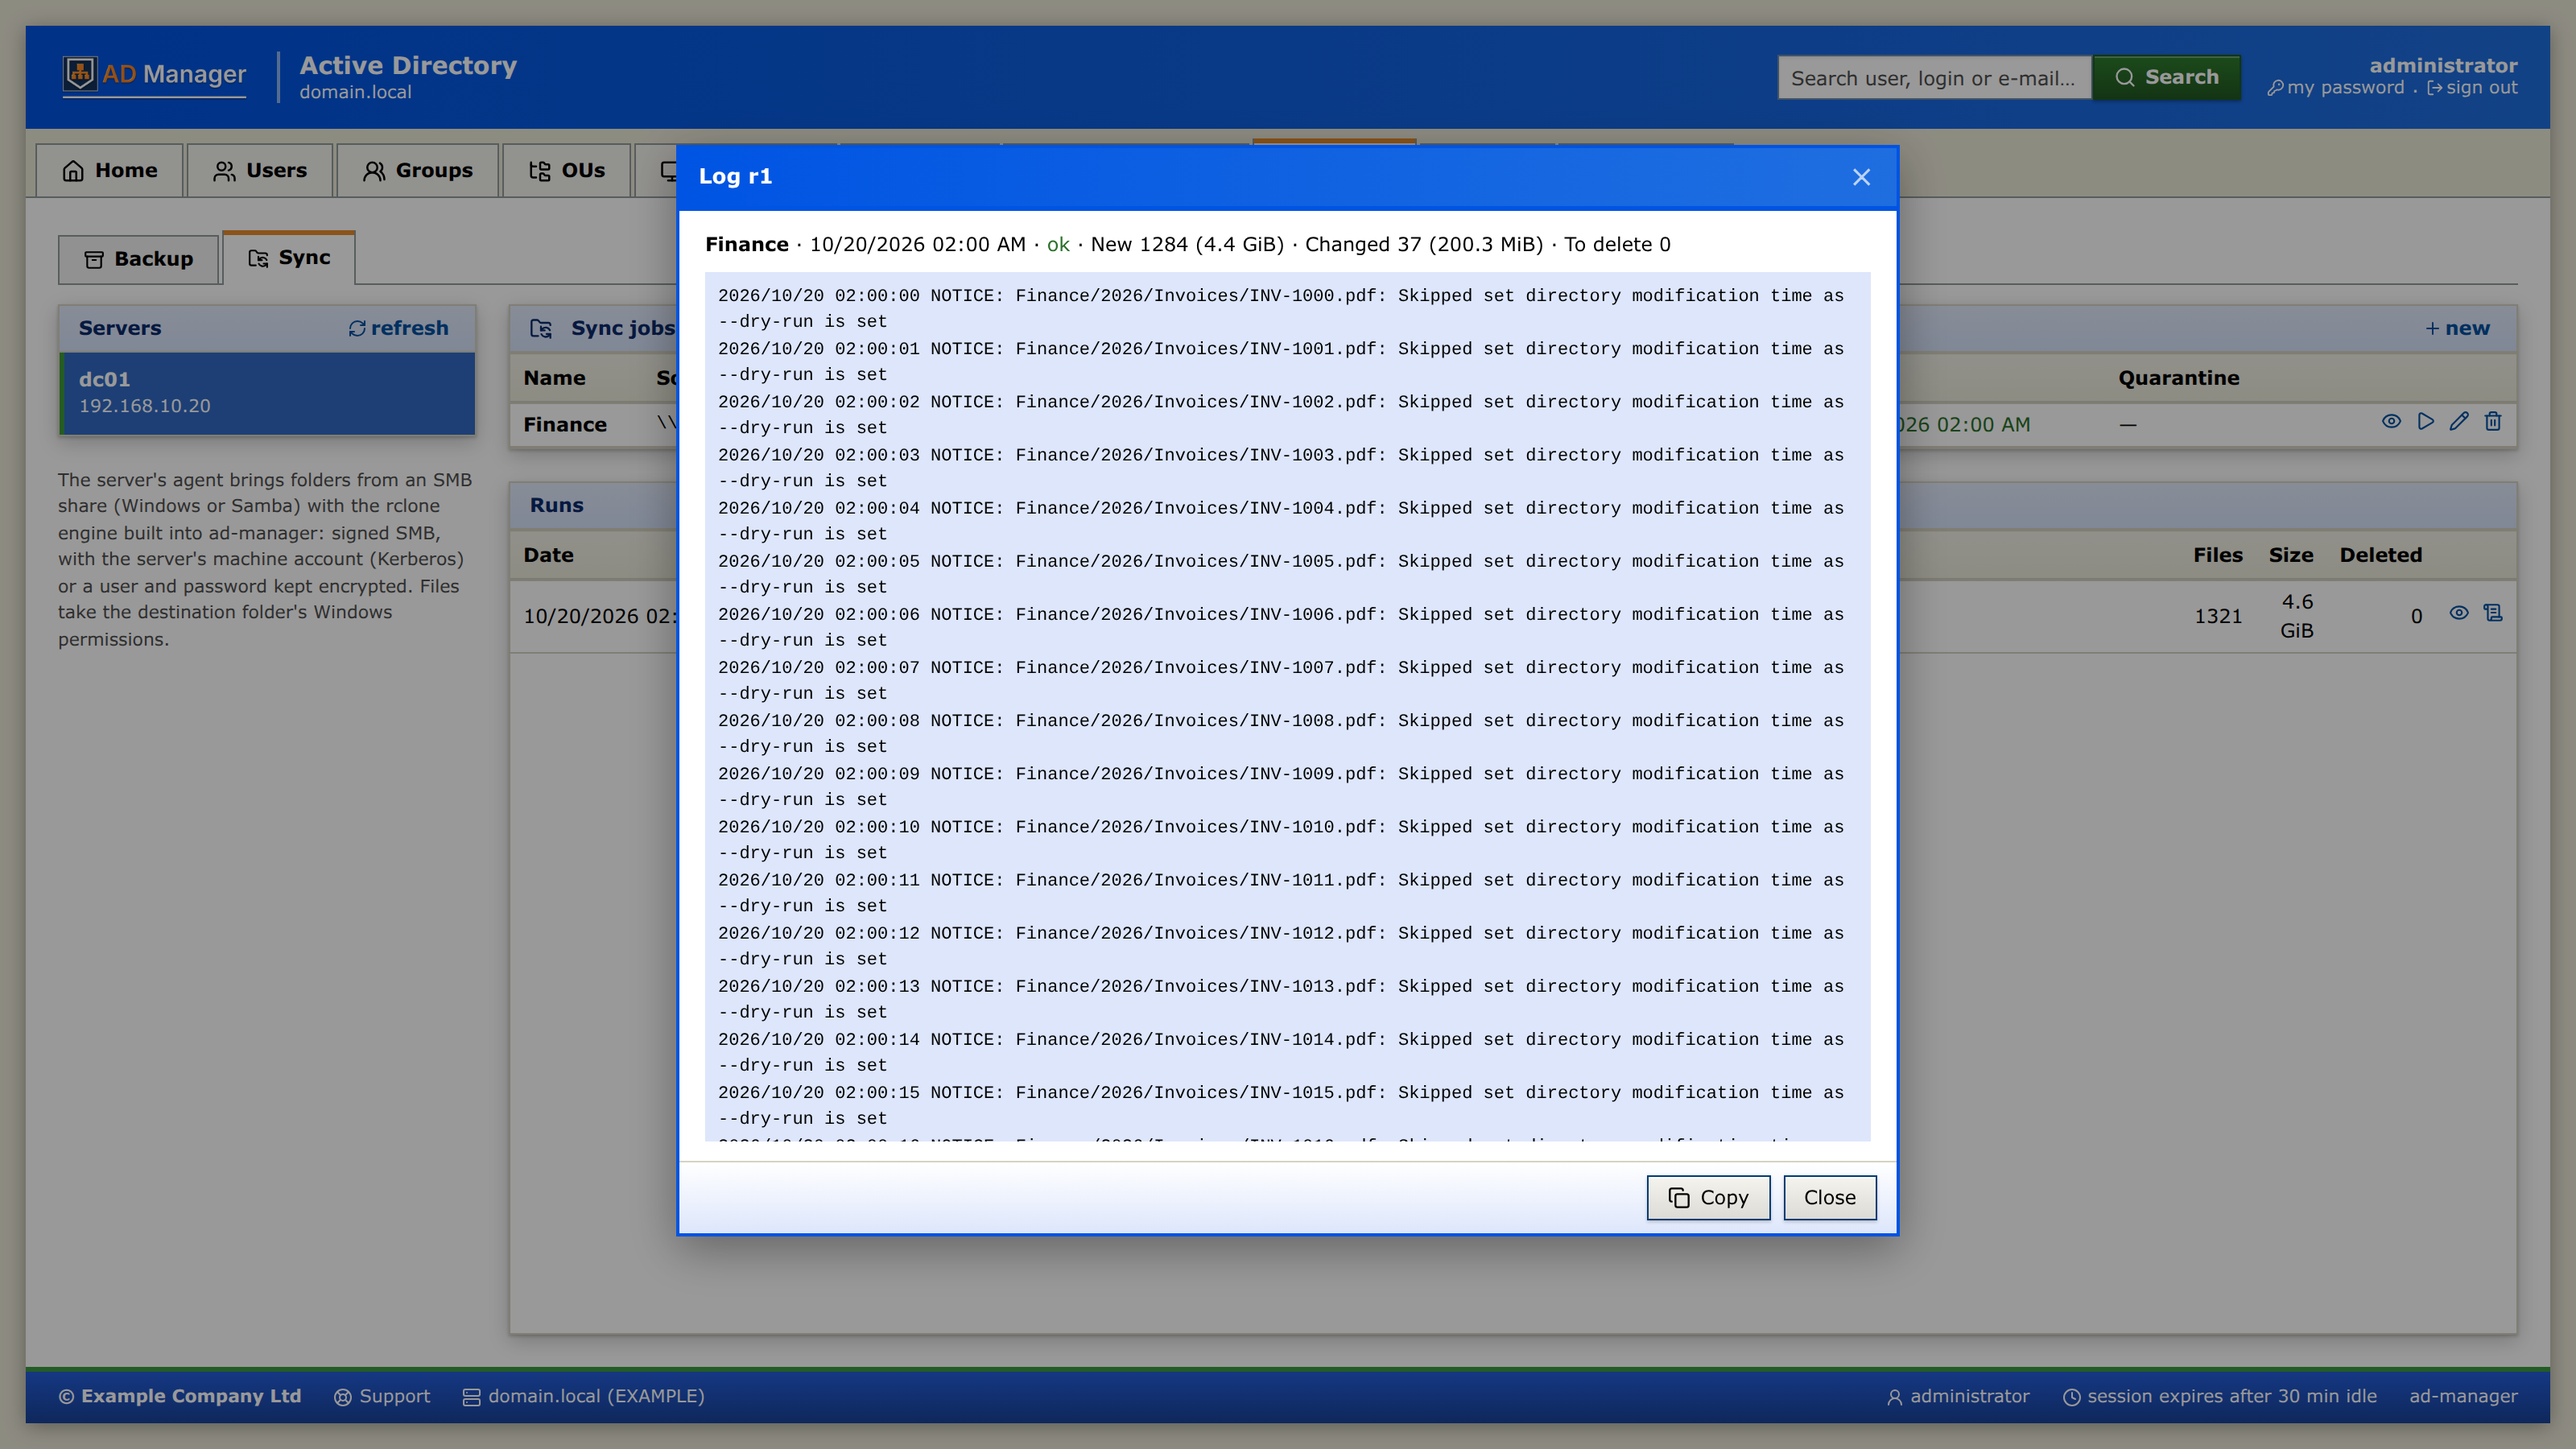
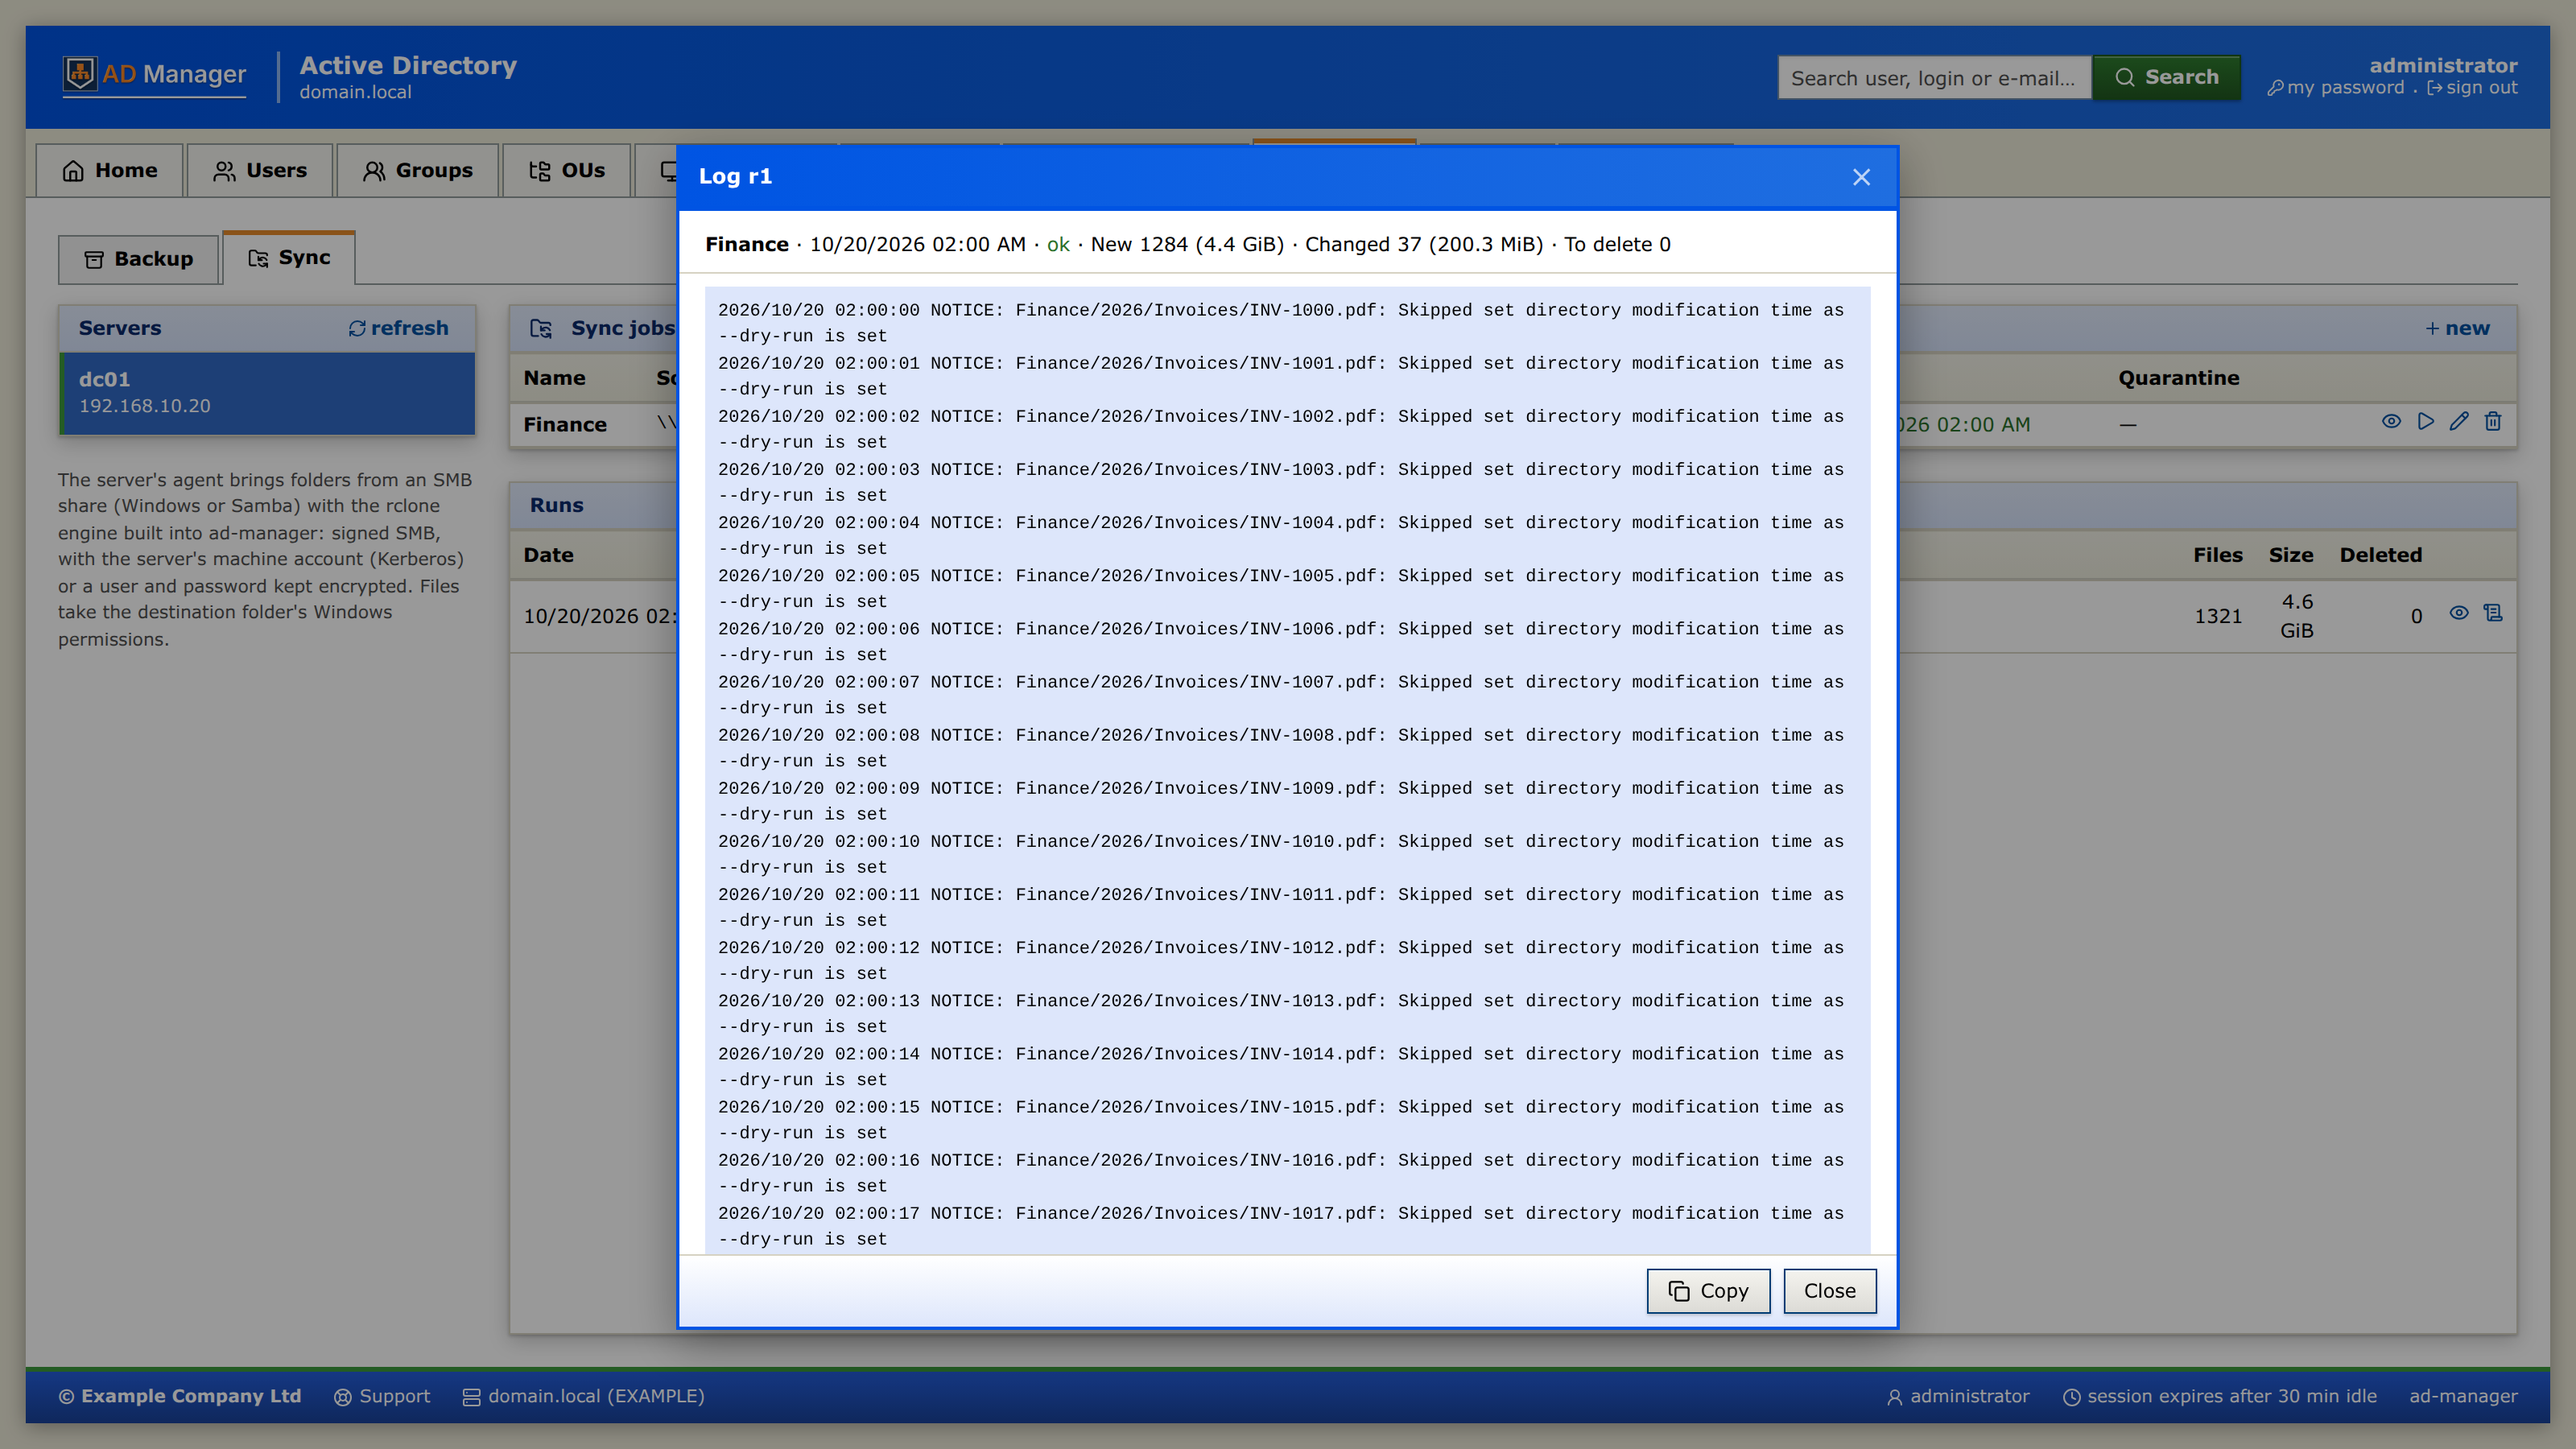
fix(web): keep the sync-log summary pinned on short viewports
Codex review found the summary could scroll away on a short (landscape
phone) viewport: the log <pre> capped at 60% of the viewport and the Modal
body independently allowed 72%, so on short screens the summary plus padding
exceeded the difference and the whole body scrolled.

Use a single scroll container (the Modal body): the summary is sticky at the
top (covering the body's top padding) so it never scrolls away, at any
height, while the log flows and the body scrolls. Verified at 820x380 with a
2600-line log — summary stays pinned, dialog fits the viewport.

Changed region(s): [[0.25, 0.1556, 0.75, 0.9333]]

diff --git a/frontend/src/components/dialogs/SyncLogDialog.vue b/frontend/src/components/dialogs/SyncLogDialog.vue
@@ -41,23 +41,19 @@ async function copy() {
 
 <template>
   <Modal :title="t('Log {id}', { id: run.id })" wide :ok="null" @close="$emit('close')">
-    <div class="space-y-2">
-      <!-- summary: stays above the scrolling log -->
-      <p class="text-[12px]">
-        <b>{{ jobName }}</b> · {{ formatDate(run.started) }} ·
-        <span :class="statusClass(run.status)">{{ statusText(run.status) }}</span>
-        <template v-if="run.result?.plan">
-          · {{ t('New') }} {{ run.result.plan.New }} ({{ size(run.result.plan.NewBytes) }}) · {{ t('Changed') }}
-          {{ run.result.plan.Changed }} ({{ size(run.result.plan.ChangedBytes) }}) · {{ t('To delete') }} {{ run.result.plan.Delete }}
-          <template v-if="!run.preview"> · {{ t('Transferred') }} {{ run.result.transfers }} ({{ size(run.result.bytes) }})</template>
-        </template>
-      </p>
-      <!-- v-text, not {{ }}: Vue preserves whitespace inside <pre>, so a line-wrapped interpolation would show a blank line -->
-      <pre
-        class="max-h-[calc(var(--view-h)*0.6)] overflow-auto whitespace-pre-wrap break-words bg-surface-2 p-2 font-mono text-[11px]"
-        v-text="text || t('No log.')"
-      />
+    <!-- one scroll container (the Modal body): the summary sticks to the top so it never scrolls away, even on a short
+         viewport, while the log flows and the body scrolls. A second cap on the <pre> would let the body scroll too. -->
+    <div class="sticky -top-3 z-10 -mx-4 -mt-3 mb-2 border-b border-line bg-surface px-4 pt-3 pb-2 text-[12px]">
+      <b>{{ jobName }}</b> · {{ formatDate(run.started) }} ·
+      <span :class="statusClass(run.status)">{{ statusText(run.status) }}</span>
+      <template v-if="run.result?.plan">
+        · {{ t('New') }} {{ run.result.plan.New }} ({{ size(run.result.plan.NewBytes) }}) · {{ t('Changed') }}
+        {{ run.result.plan.Changed }} ({{ size(run.result.plan.ChangedBytes) }}) · {{ t('To delete') }} {{ run.result.plan.Delete }}
+        <template v-if="!run.preview"> · {{ t('Transferred') }} {{ run.result.transfers }} ({{ size(run.result.bytes) }})</template>
+      </template>
     </div>
+    <!-- v-text, not {{ }}: Vue preserves whitespace inside <pre>, so a line-wrapped interpolation would show a blank line -->
+    <pre class="whitespace-pre-wrap break-words bg-surface-2 p-2 font-mono text-[11px]" v-text="text || t('No log.')" />
     <template #foot>
       <button type="button" class="btn-ghost" @click="copy"><Copy :size="14" /> {{ copied ? t('Copied') : t('Copy') }}</button>
     </template>
